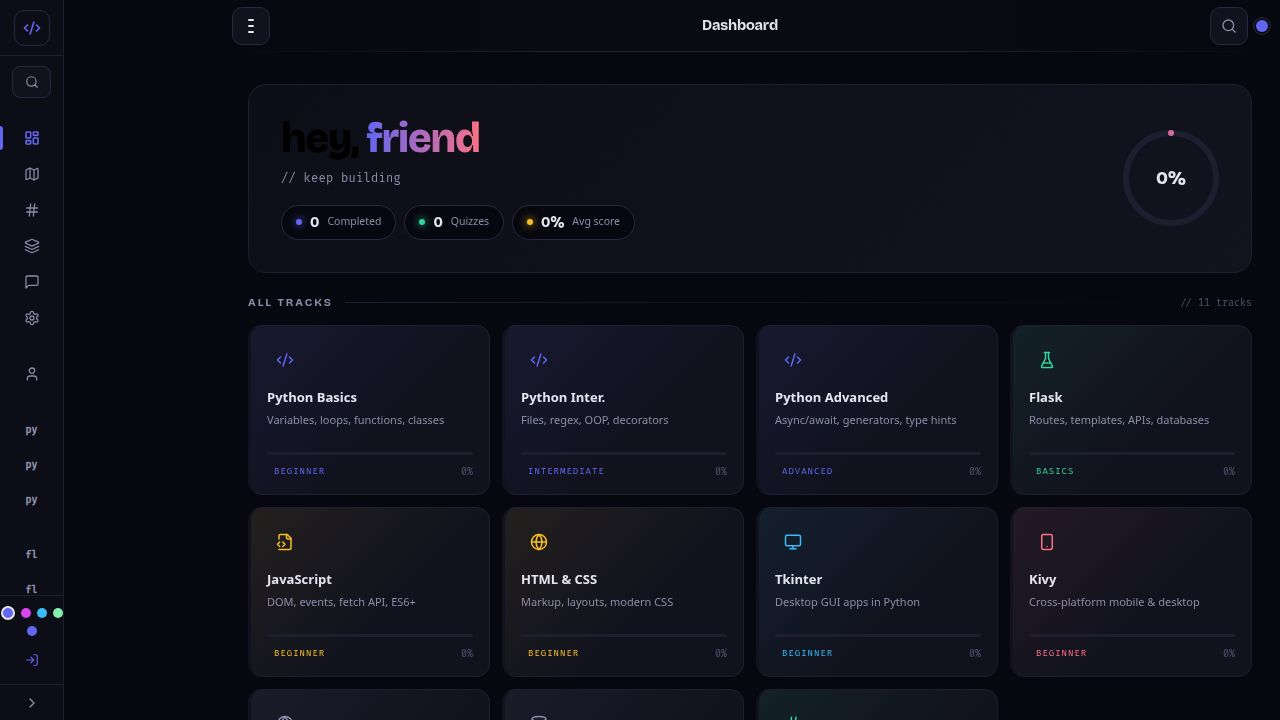
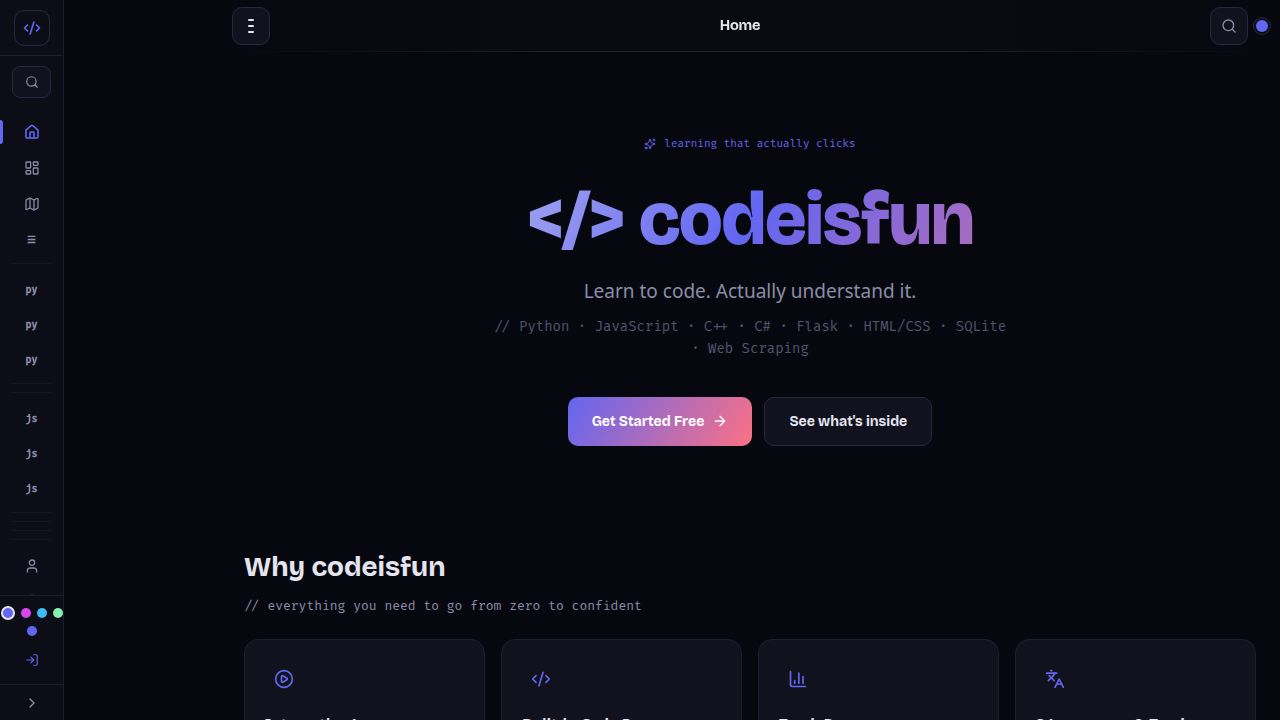
v7

diff --git a/PersonalWeb/devhub/src/pages/Feedback.tsx b/PersonalWeb/devhub/src/pages/Feedback.tsx
@@ -1,5 +1,6 @@
 import { useState, useEffect } from "react";
 import { Heart, Send } from "lucide-react";
+import { toast } from "sonner";
 import { T } from "../utils/theme";
 import { useWindowWidth } from "../hooks/useWindowWidth";
 import { supabase } from "../services/supabase";
@@ -95,19 +96,28 @@ export default function Feedback() {
 
   const submit = async () => {
     if (!message.trim()) return;
-    if (getRateLimitCount() >= RATE_LIMIT) return;
+    if (getRateLimitCount() >= RATE_LIMIT) {
+      toast.error("Daily limit reached — try again tomorrow.");
+      return;
+    }
     setBusy(true);
     const newItem = {
       message: message.trim(),
       name: name.trim() || "anon",
       user_id: user?.id,
     };
-    await saveFeedback(newItem);
-    incrementRateLimit();
-    setMessage("");
-    setBusy(false);
-    const fresh = await loadFeedback();
-    setItems(fresh);
+    try {
+      await saveFeedback(newItem);
+      incrementRateLimit();
+      setMessage("");
+      toast.success("Feedback posted — thanks! 🙌");
+      const fresh = await loadFeedback();
+      setItems(fresh);
+    } catch {
+      toast.error("Couldn't post feedback — please try again.");
+    } finally {
+      setBusy(false);
+    }
   };
 
   const charsLeft = MAX_CHARS - message.length;

diff --git a/PersonalWeb/devhub/vite.config.ts b/PersonalWeb/devhub/vite.config.ts
@@ -3,21 +3,27 @@ import react from "@vitejs/plugin-react";
 import tailwindcss from "@tailwindcss/vite";
 import path from "path";
 
-const __dirname = path.dirname(new URL(import.meta.url).pathname);
-
 export default defineConfig({
-  plugins: [react(), tailwindcss()],
+  plugins: [
+    react(),
+    tailwindcss(),
+  ],
   resolve: {
-    alias: { "@": path.resolve(__dirname, "src") },
+    alias: {
+      "@": path.resolve(__dirname, "src"),
+    },
     dedupe: ["react", "react-dom"],
   },
-  root: path.resolve(__dirname),
   build: {
-    outDir: path.resolve(__dirname, "dist"),
+    outDir: "dist",
     emptyOutDir: true,
   },
   server: {
     port: 5173,
-    host: "0.0.0.0",
+    host: true,
+  },
+  preview: {
+    port: 4173,
+    host: true,
   },
 });

diff --git a/PersonalWeb/devhub/src/App.tsx b/PersonalWeb/devhub/src/App.tsx
@@ -1,4 +1,5 @@
 import { Suspense, lazy, useState, useEffect, useCallback } from "react";
+import { Toaster } from "sonner";
 import { AuthProvider }       from "./contexts/AuthContext";
 import { ProgressProvider }   from "./contexts/ProgressContext";
 import { AppCtx, RunCtx }     from "./contexts/AppContext";
@@ -127,7 +128,7 @@ function PageRenderer({ page, theme, setTheme, onShowAuth, setPage }: {
 }
 
 function InnerApp() {
-  const { user, signOut } = useAuth();
+  const { user, loading, signOut } = useAuth();
   const isMobile = useWindowWidth() < 900;
   useReduceMotion(); // initialise reduce-motion CSS class from localStorage
 
@@ -177,12 +178,13 @@ function InnerApp() {
     } catch {}
   }, [user]);
 
-  // Auto-redirect on login/logout
+  // Auto-redirect on login/logout — skip while auth is still initialising
   useEffect(() => {
+    if (loading) return;
     if (user && page === "home") setPageRaw("dashboard");
     if (!user && page !== "home") setPageRaw("home");
     // eslint-disable-next-line react-hooks/exhaustive-deps
-  }, [user]);
+  }, [user, loading]);
 
   const appCtx = { page, setPage };
 
@@ -247,6 +249,7 @@ export default function App() {
     <AuthProvider>
       <ProgressProvider>
         <InnerApp />
+        <Toaster position="bottom-right" richColors theme="dark" />
       </ProgressProvider>
     </AuthProvider>
   );

diff --git a/PersonalWeb/devhub/src/utils/nav.ts b/PersonalWeb/devhub/src/utils/nav.ts
@@ -19,11 +19,12 @@ export interface NavGroup {
 }
 
 export const NAV: NavGroup[] = [
-  // Top: Home + Dashboard + Roadmap, always visible
+  // Top: Home + Dashboard + Roadmap + Cheatsheets, always visible
   { section: "", collapsible: false, items: [
-    { id: "home",      label: "Home",       icon: "⌂", color: T.accent },
-    { id: "dashboard", label: "Dashboard",  icon: "▣", color: T.accent },
-    { id: "roadmap",   label: "Roadmap",    icon: "◈", color: T.accent },
+    { id: "home",       label: "Home",        icon: "⌂", color: T.accent },
+    { id: "dashboard",  label: "Dashboard",   icon: "▣", color: T.accent },
+    { id: "roadmap",    label: "Roadmap",     icon: "◈", color: T.accent },
+    { id: "cheatsheet", label: "Cheatsheets", icon: "☰", color: T.accent },
   ]},
 
   // PYTHON

diff --git a/PersonalWeb/devhub/src/layouts/Sidebar.tsx b/PersonalWeb/devhub/src/layouts/Sidebar.tsx
@@ -278,9 +278,9 @@ export function Sidebar({
                   overflow: "hidden", textOverflow: "ellipsis", whiteSpace: "nowrap",
                 }}>{shortLabel}</div>
                 <div style={{
-                  fontSize: 9, color: T.accent,
+                  fontSize: 9, color: T.muted,
                   fontFamily: "'Fira Code',monospace", letterSpacing: "0.5px",
-                }}>lv.1</div>
+                }}>member</div>
               </div>
             )}
           </div>